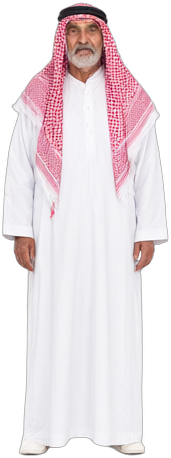
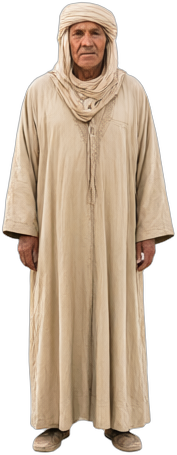
feat: sdServer の画像を取り込む（更新 6 件: 砂漠の住民・エルフの長老、追加 7 件: 寒冷地の住民・門番 330〜336）。A（キュラビッド帝国）の住民・門番を寒冷地の画像に

diff --git a/scripts/world/town_a.py b/scripts/world/town_a.py
@@ -21,8 +21,8 @@ def _fac(sign, x0, y0, wid=None):
 FACILITIES = [_fac('q', 3, 4), _fac('Q', 8, 4), _fac('c', 13, 4), _fac('a', 23, 4), _fac('k', 28, 4), _fac('r', 33, 4), _fac('M', 5, 19)]
 HOUSES = ((4, 9), (8, 9), (4, 13), (8, 13), (4, 16), (28, 9), (32, 9), (28, 13), (32, 13), (28, 16), (32, 16),
           (3, 25), (8, 25), (13, 25), (23, 25), (28, 25), (33, 25))   # 通りに挟まれた区画の家（4×3）
-NPCS = [('town_man', 6, 8), ('town_old_woman', 30, 8), ('town_middle_woman', 12, 22), ('junior_merchant_woman', 24, 22), ('elder_woman', 3, 15), ('child_boy', 15, 8),
-        ('guard_spear', 17, 27), ('guard_light', 22, 27), ('gate_guard', 18, 17), ('gate_guard', 21, 17)]
+NPCS = [('snow_man', 6, 8), ('snow_old_man', 30, 8), ('snow_woman', 12, 22), ('snow_woman', 24, 22), ('snow_old_woman', 3, 15), ('snow_boy', 15, 8), ('snow_girl', 26, 21),
+        ('guard_spear', 17, 27), ('guard_light', 22, 27), ('snow_gate_guard', 18, 17), ('snow_gate_guard', 21, 17)]   # 住民・門番は、sdServer の寒冷地の画像（330〜336）
 
 
 def _road(g, x0, x1, y0, y1):
